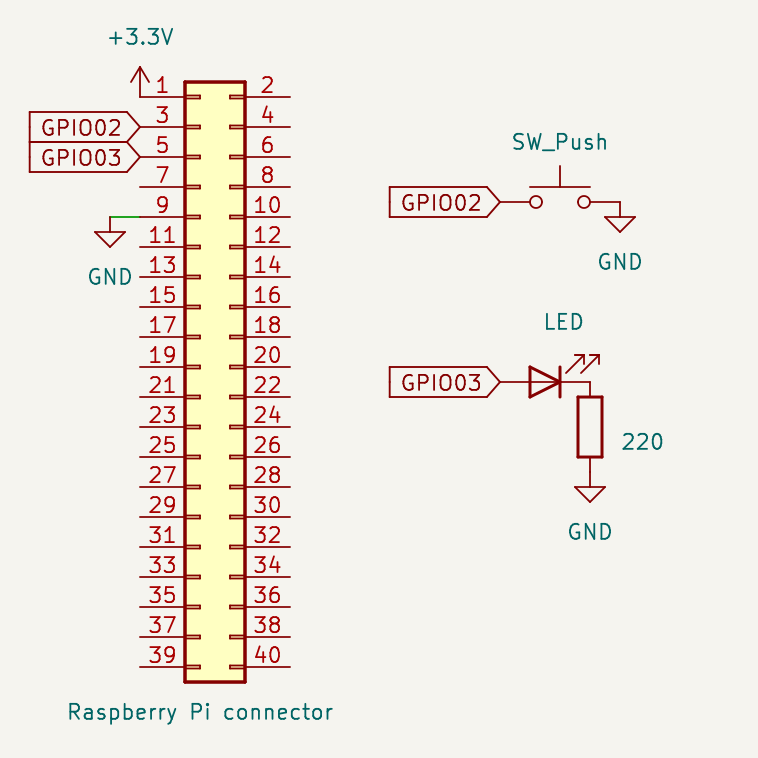
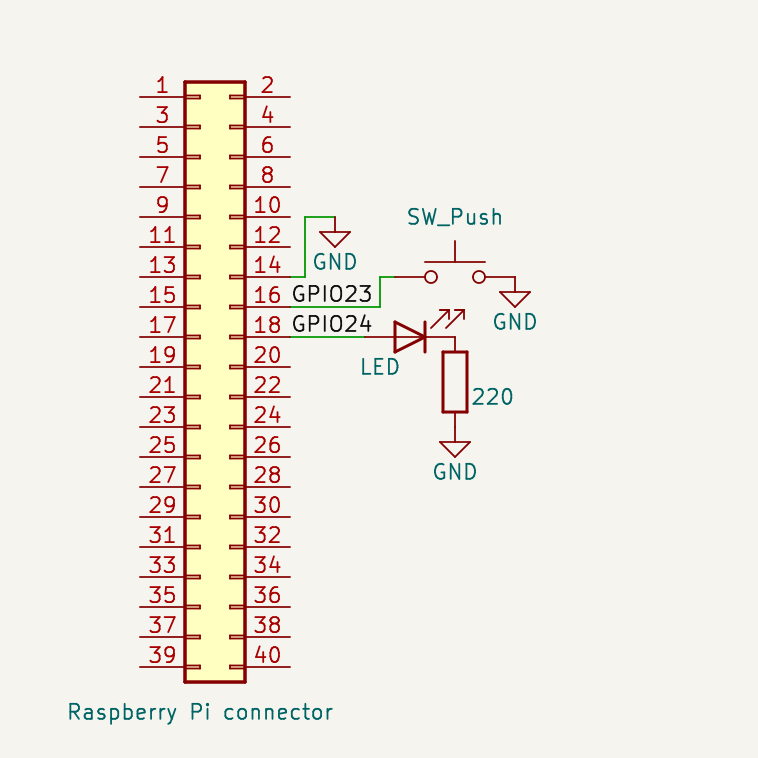
Add raspberry pi code

diff --git a/raspi_photobooth.py b/raspi_photobooth.py
@@ -1,0 +1,86 @@
+import RPi.GPIO as GPIO
+from time import sleep, time
+from photobooth import create_image
+import threading
+import logging as log
+import atexit
+
+photobooth_mutex = threading.Lock()
+button = 23
+led = 24
+
+
+def blink(period: int) -> None:
+    """
+    Blink led for a total period of time specified in `period` argument
+    """
+    GPIO.output(led, GPIO.HIGH)
+    sleep(period / 2)
+    GPIO.output(led, GPIO.LOW)
+    sleep(period / 2)
+
+
+def countdown_handler(wait_time: int) -> None:
+    """
+    Blink with increasing frequency before a new image is taken
+    """
+    max_period = 1
+    min_period = 0.05
+    start = time()
+    time_left = wait_time
+    while time() - start < wait_time:
+        time_left = wait_time - (time() - start)
+        period = time_left / 4
+        if period < min_period:
+            period = min_period
+        elif period > max_period:
+            period = max_period
+
+        blink(period)
+
+
+def run_photobox(mutex: threading.Lock) -> None:
+    """
+    Run `create_image` function and release mutex after it is finished
+    """
+    log.debug('Creating photobox image')
+    blink(1)
+    create_image(countdown_handler=countdown_handler)
+    mutex.release()
+
+
+def button_handler(_):
+    """
+    Callback function for every time the buton is pressed
+    """
+    log.debug('Button pressed')
+    if photobooth_mutex.acquire(blocking=False):
+        # Create image in thread
+        threading.Thread(target=run_photobox,
+                         args=(photobooth_mutex, )).start()
+
+    else:  # This is my solution to debounce :)
+        log.debug('Could not start photobooth thread, mutex busy')
+
+
+def main():
+    # Setup gpio
+    GPIO.setmode(GPIO.BCM)
+    GPIO.setup(button, GPIO.IN, pull_up_down=GPIO.PUD_UP)
+    GPIO.setup(led, GPIO.OUT, initial=GPIO.LOW)
+    GPIO.add_event_detect(button, GPIO.FALLING, callback=button_handler)
+    atexit.register(GPIO.cleanup)
+
+    # Blink when starting program
+    log.debug("Starting program")
+    blink(0.1)
+    blink(0.1)
+
+    # Run infinite loop
+    while True:
+        sleep(5)
+
+
+if __name__ == '__main__':
+    log.basicConfig(format='%(levelname)s: %(message)s', level=log.INFO)
+    main()

diff --git a/README.md b/README.md
@@ -2,14 +2,14 @@
 
 This is a photobooth project for my birthday celebration.
 The concept of the project is a dslr camera connected to a respberry pi which captures four images with it and put them together in a single image. The image is then Sent to a small photo printer that prints the image.
-Here is an illustration of the concept:
+**Here is an illustration of the concept**
 ![illustration of concept](./example_images/concept_illustration.png)
-Here is an example of a possible resulting image:
+**Here is an example of a possible resulting image**
 ![result example](./example_images/montage_example.jpg)
 
 ### Technical details
 
-I use a Canon dslr that I can connect to a Raspberry Pi via Python bindings for [gphoto2](http://gphoto.org/). The Python program running on the Raspberry Pi is [photobooth.py](./photobooth.py). The rasbperry pi will connect to a photo printer that prints the montage image when it is finished.
+I use a Canon dslr that I can connect to a Raspberry Pi via Python bindings for [gphoto2](http://gphoto.org/). The Python program running on the Raspberry Pi is [raspi_photobooth.py](./raspi_photobooth.py), which relies on [photobooth.py](./photobooth.py). The rasbperry pi will connect to a photo printer that prints the montage image when it is finished.
 
 ### Requirements
 
@@ -26,5 +26,5 @@ I use a Canon dslr that I can connect to a Raspberry Pi via Python bindings for 
 - A screen or led that indicates when images will be taken
 - A printer that the computer can control
 
-**Here is an image of the button and led connected to the raspberry pi**
+**Here is a schematic of the button and led connected to the raspberry pi**
 ![raspberry pi connection diagram](./example_images/schematic.png)
